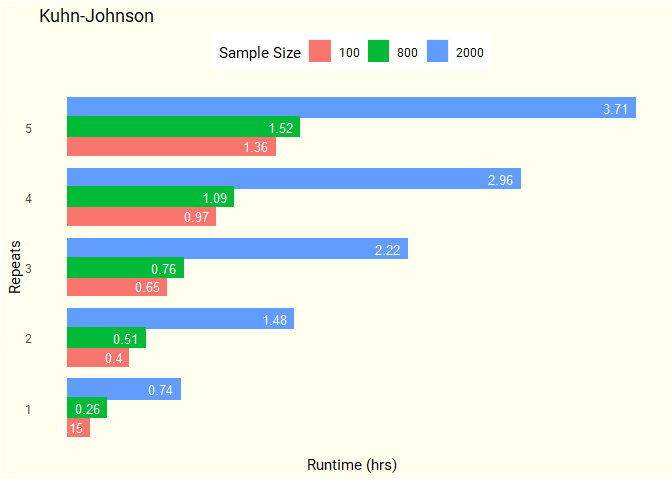
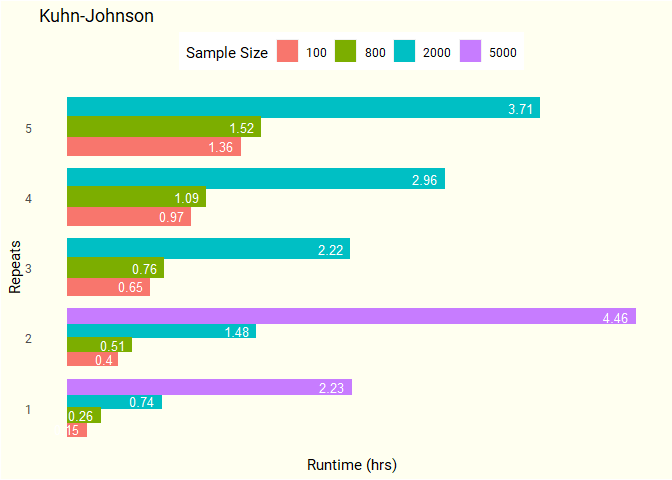
added n = 5000, repeats 1,2,3 runtime output to readme

Changed region(s): [[0.0938, 0.1875, 0.9688, 0.9062], [0.2812, 0.0625, 0.7812, 0.1562]]

diff --git a/README.md b/README.md
@@ -89,14 +89,24 @@ Experiment details:
   - The fastest implementation of each method will be used in running a
     nested cross-validation with different sizes of data ranging from
     100 to 5000 observations and different numbers of repeats of the
-    outer-loop cv strategy.  
+    outer-loop cv strategy.
+      - The {mlr3} implementation was the fastest for Raschka’s method,
+        but the Ranger-Kuhn-Johnson implementation is close. So I’ll be
+        using Ranger-Kuhn-Johnson for both methods.  
   - The chosen algorithm and hyperparameters will used to predict on a
     100K row simulated dataset and the mean absolute error will be
     calculated for each combination of repeat, data size, and method.  
-  - AWS  
-  - Drake
+  - Runtimes began to explode after n = 800 for my 8 vcpu, 16 GB RAM
+    desktop, so I ran this experiment using AWS instances: a r5.2xlarge
+    for the Elastic Net and a r5.24xlarge for Random Forest.  
+  - I’ll be iterating through different numbers of repeats and sample
+    sizes, so I’ll be transitioning from imperative scripts to a
+    functional approach. Given the long runtimes and impermanent nature
+    of my internet connection, it would be nice to cache each iteration
+    as it finishes. The [{drake}](https://github.com/ropensci/drake)
+    package is superb on both counts, so I’m using it to orchestrate.
 
-![](README_files/figure-gfm/perf_build_times-1.png)<!-- -->
+![](README_files/figure-gfm/perf_bt_charts-1.png)<!-- -->
 
 References
 
